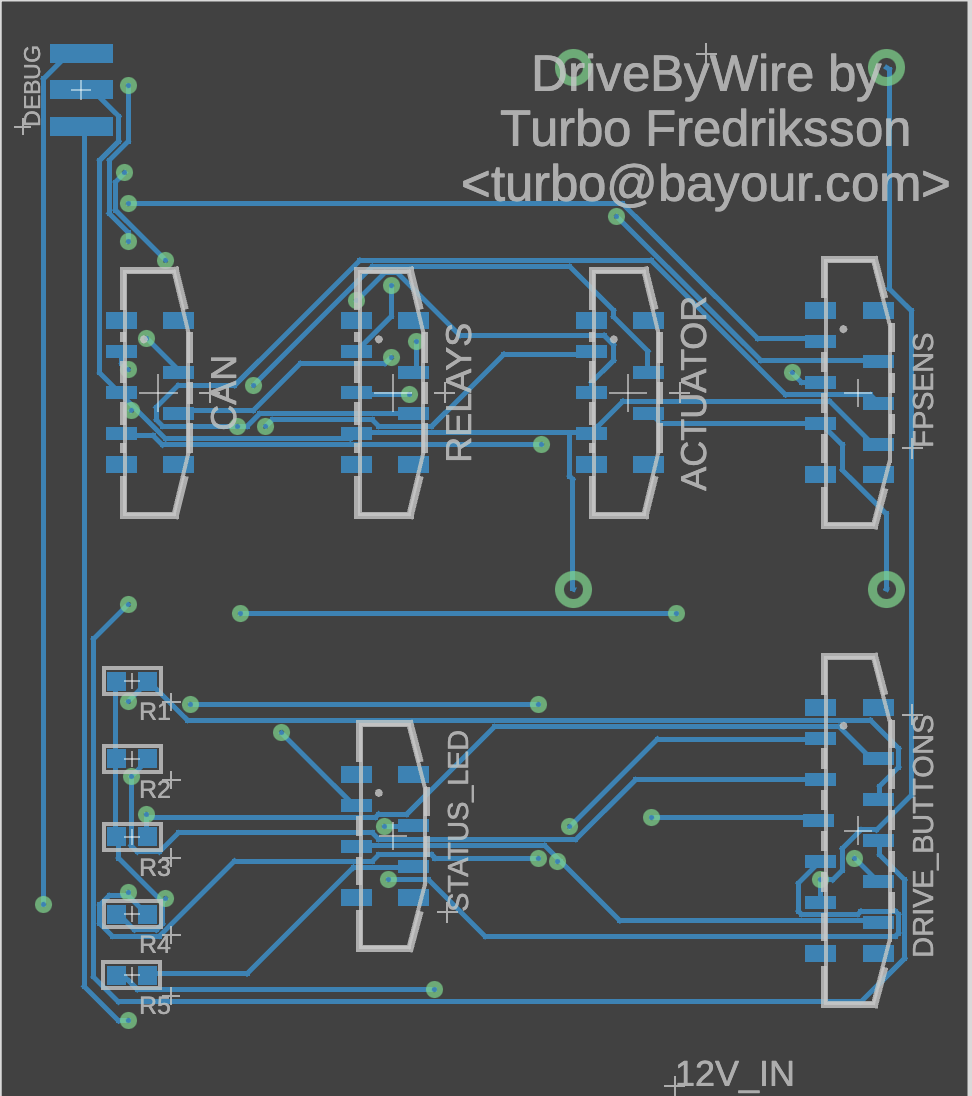
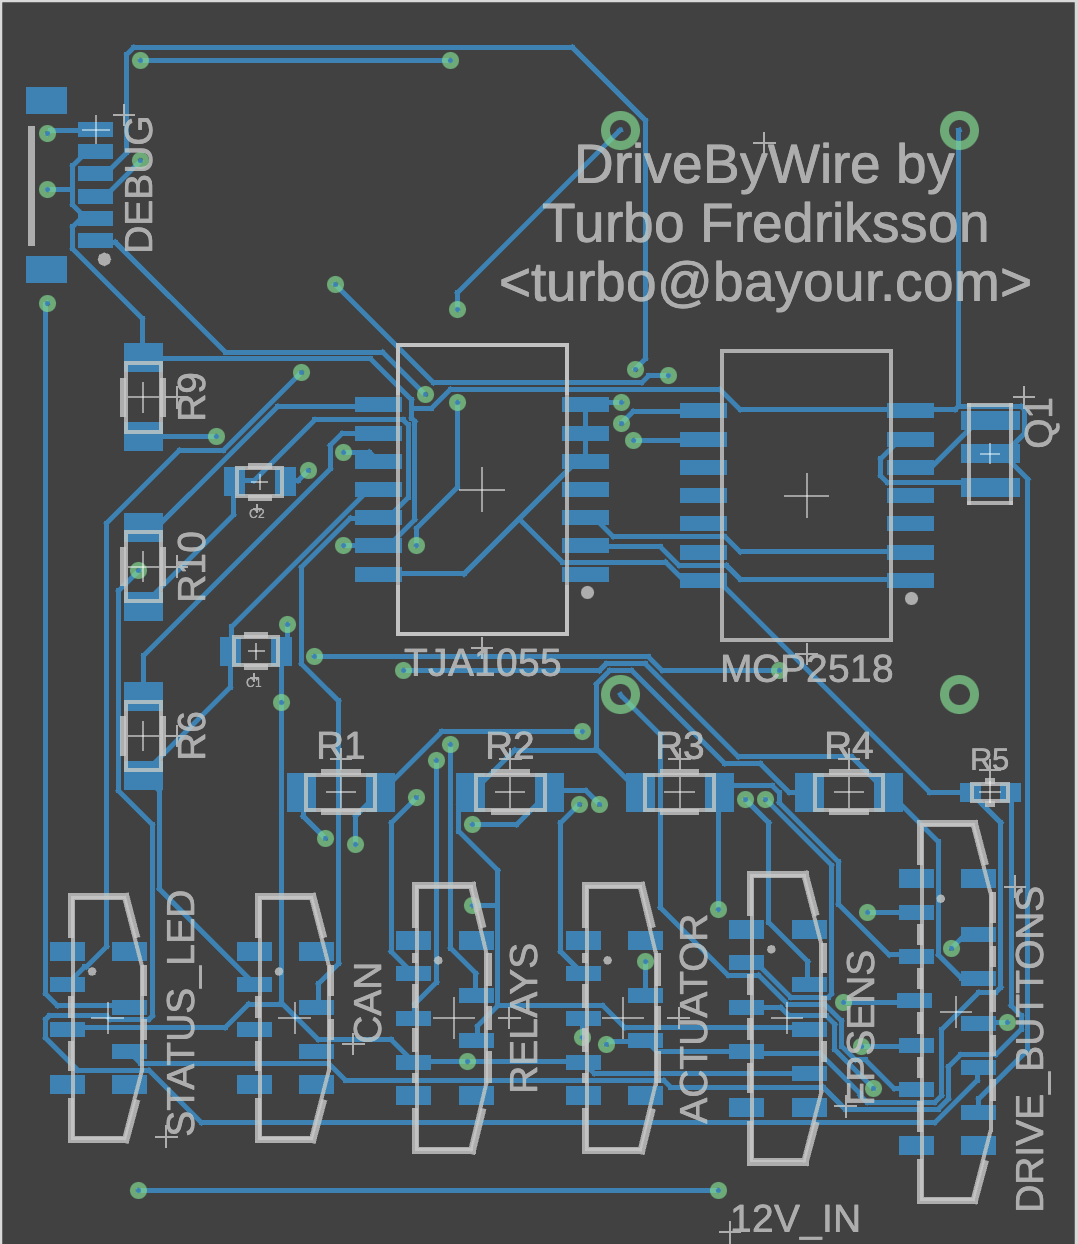
Implement a CAN bus adaptor on the main circuit diagram.
+ Add more components for the CAN bus adaptor in the README.
  + Cross out some stuff that I either didn't buy or don't need.
+ Update the screenshots.

diff --git a/README.md b/README.md
@@ -40,6 +40,7 @@ This is to introduce drive-by-wire buttons for Mercedes-Benz. Specifically, it i
      - [Update Sun 4 May 2024](#update-sun-4-may-2024)
      - [Update Sun 5 May 2024](#update-sun-5-may-2024)
      - [Update Sun 6 May 2024](#update-sun-6-may-2024)
+     - [Update Sun 8 May 2024](#update-sun-8-may-2024)
 5. [Additional information](#additional-information)
 
 ## Fingerprint scanner instead of Start button
@@ -214,16 +215,18 @@ Or those two combined, [buttons and their LEDs and the status LED](https://www.e
 
 # Parts
 
+Crossed out parts are things I either didn't buy or don't need. Yet. Which is why I'm leaving them, but cross them out.
+
 ## Actuation
 
 | Part | Price |
 | :--- | :---  |
 | [Actuator w/ feedback (potentiometer)](https://www.progressiveautomations.com/products/linear-actuator-with-potentiometer?variant=18277322424387) | £115 ($145) |
 | [Aston Martin drive select buttons](https://www.ebay.co.uk/sch/i.html?_dkr=1&iconV2Request=true&_blrs=recall_filtering&_ssn=hillsmotors&store_name=hillsmotors&_oac=1&_nkw=gear%20select%20switch) | £35	(*4 = £140) |
-| [GX20 Aviation Plug  4-pin Male+Female Panel Mount](https://www.ebay.co.uk/itm/174775342997?var=473951323019) | £4 |
-| [GX20 Aviation Plug  5-pin Male+Female Panel Mount](https://www.ebay.co.uk/itm/174775342997?var=473951323020) | £4 |
-| [GX20 Aviation Plug  6-pin Male+Female Panel Mount](https://www.ebay.co.uk/itm/174775342997?var=473951323021) | £4 |
-| [GX20 Aviation Plug 12-pin Male+Female Panel Mount](https://www.ebay.co.uk/itm/174775342997?var=473951323026) | £5 |
+| ~~[GX20 Aviation Plug  4-pin Male+Female Panel Mount](https://www.ebay.co.uk/itm/174775342997?var=473951323019)~~ | ~~£4~~ |
+| ~~[GX20 Aviation Plug  5-pin Male+Female Panel Mount](https://www.ebay.co.uk/itm/174775342997?var=473951323020)~~ | ~~£4~~ |
+| ~~[GX20 Aviation Plug  6-pin Male+Female Panel Mount](https://www.ebay.co.uk/itm/174775342997?var=473951323021)~~ | ~~£4~~ |
+| ~~[GX20 Aviation Plug 12-pin Male+Female Panel Mount](https://www.ebay.co.uk/itm/174775342997?var=473951323026)~~ | ~~£5~~ |
 
 ## Controller
 
@@ -232,8 +235,8 @@ Or those two combined, [buttons and their LEDs and the status LED](https://www.e
 | [Raspberry Pi Pico (w/ headers)](https://thepihut.com/products/raspberry-pi-pico?variant=41925332566211) | £5 |
 | [DC-DC Buck Converter 7-24V to 5V 4A](https://thepihut.com/products/dc-dc-buck-converter-7-24v-to-5v-4a?variant=39865627607235) | £5 |
 | [Fingerprint scanner (panel mount)](https://thepihut.com/products/panel-mount-fingerprint-sensor-with-bi-colour-led-ring-r503?variant=41727311675587) | £23 |
-| [MOSFET Power Controller](https://thepihut.com/products/gravity-mosfet-power-controller) | £4 (*3 = £12) |
-| [1Channel CAN bus extension board](https://thepihut.com/products/can-board-sn65hvd230?variant=40242101256387) | £6 (*2 = £12) |
+| [MOSFET Power Controller](https://thepihut.com/products/gravity-mosfet-power-controller) | £4 * 3 |
+| ~~[1Channel CAN bus extension board](https://thepihut.com/products/can-board-sn65hvd230?variant=40242101256387)~~ | ~~£6 * 2~~ |
 | [NeoPixel Diffused 5mm LED](https://thepihut.com/products/neopixel-diffused-5mm-through-hole-led-5-pack?variant=27739696529) | £5 |
 | [LED holder 5mm](https://thepihut.com/products/5mm-plastic-flat-led-holder-pack-of-5?variant=27739774353) | £1 |
 
@@ -243,7 +246,19 @@ Or those two combined, [buttons and their LEDs and the status LED](https://www.e
 | :--- | :---  |
 | [TJA1055T/1J Fault-tolerant CAN chip](https://www.mouser.co.uk/ProductDetail/771-TJA1055T-1J) | £2
 | [MCP2513FDTE/SL CAN Interface IC](https://www.mouser.co.uk/ProductDetail/579-MCP2518FDT-E-SL) | £2
-| [SO14 IC to Breadboard adapter](https://www.mouser.co.uk/ProductDetail/535-LCQT-SOIC14) | £4 * 2
+| [WR-FPC connector -  4pin](https://www.mouser.co.uk/ProductDetail/710-686104183822) | £1 * 2
+| [WR-FPC jumper cable -  4pin/10cm](https://www.mouser.co.uk/ProductDetail/710-686704100001) | £3 * 2
+| [WR-FPC connector -  5pin](https://www.mouser.co.uk/ProductDetail/710-686105183822) | £1 * 2
+| [WR-FPC jumper cable -  5pin/10cm](https://www.mouser.co.uk/ProductDetail/710-686705100001) | £3 * 2
+| [WR-FPC connector -  6pin](https://www.mouser.co.uk/ProductDetail/710-686106183822) | £1
+| [WR-FPC jumper cable -  6pin/10cm](https://www.mouser.co.uk/ProductDetail/710-686706100001) | £3
+| [WR-FPC connector - 10pin](https://www.mouser.co.uk/ProductDetail/710-686110183822) | £2
+| [WR-FPC jumper cable - 10pin/10cm](https://www.mouser.co.uk/ProductDetail/710-686710100001) | £3
+| [DC Power Connector](https://www.mouser.co.uk/ProductDetail/502-RASM722X) | £1
+| [Resistor -  1kΩ](https://www.mouser.co.uk/ProductDetail/710-560112132038) | £0.10 * 7
+| [Resistor - 10kΩ](https://www.mouser.co.uk/ProductDetail/710-560112116005) | £0.09
+| [Capacitor - 150pF](https://www.mouser.co.uk/ProductDetail/710-885012007017) | £0.08 * 2
+| [Resonator - 16MHz/15pF](https://www.mouser.co.uk/ProductDetail/81-CSTNE16M0VH3L000R) | £0.30
 
 ## For development
 
@@ -252,10 +267,10 @@ Or those two combined, [buttons and their LEDs and the status LED](https://www.e
 | [Raspberry Pi Debug Probe](https://thepihut.com/products/raspberry-pi-debug-probe?variant=42380171870403) | £12 |
 | [120-Piece Ultimate Jumper Bumper Pack](https://thepihut.com/products/thepihuts-jumper-bumper-pack-120pcs-dupont-wire?variant=13530244284478) | £6 |
 | [575-Piece Ultimate Resistor Kit](https://thepihut.com/products/ultimate-resistor-kit?variant=36476117073) | £6 |
-| [Half-Size Breadboard](https://thepihut.com/products/breadboard-400-point-clear?variant=31986026381374) | £3 (*3 => £9) |
+| [Half-Size Breadboard](https://thepihut.com/products/breadboard-400-point-clear?variant=31986026381374) | £3 * 3 |
 | [Breadboard for Pico](https://thepihut.com/products/breadboard-for-pico?variant=39819276386499) | £4 |
 | [Short Plug Headers](https://thepihut.com/products/short-plug-headers-for-raspberry-pi-pico-2-x-20-pin-male?variant=42182974505155) | £1 |
-| *[10K potentiometer](https://thepihut.com/products/panel-mount-10k-potentiometer-breadboard-friendly?variant=27740444817)* | £1 |
+| ~~[10K potentiometer](https://thepihut.com/products/panel-mount-10k-potentiometer-breadboard-friendly?variant=27740444817)~~ | ~~£1~~ |
 | [Tactile Switch Buttons](https://thepihut.com/products/tactile-switch-buttons-6mm-tall-x-10-pack?variant=27739414097) | £3 |
 | [Breakout for 6-pin JST SH-Style Connector - Side Entry](https://thepihut.com/products/breakout-for-6-pin-jst-sh-style-connector-side-entry?variant=42438253871299) | £1 |
 | [Extra-long break-away 0.1" 16-pin strip male header (5 pieces)](https://thepihut.com/products/extra-long-break-away-0-1-16-pin-strip-male-header-5-pieces?variant=27740420881) | £3 |
@@ -264,9 +279,10 @@ Or those two combined, [buttons and their LEDs and the status LED](https://www.e
 | [Breadboard-friendly 2.1mm DC barrel jack](https://thepihut.com/products/breadboard-friendly-2-1mm-dc-barrel-jack?variant=27740417489) | £1 |
 | [In-line power switch for 2.1mm barrel jack](https://thepihut.com/products/in-line-power-switch-for-2-1mm-barrel-jack?variant=27739226065) | £2 |
 | [DB9 Right Angle MALE Connector - PCB Mount D-SUB](https://www.ebay.co.uk/itm/325261653847) | £3 |
-| [Dupont Jump Wire F-F Jumper Breadboard Cable Lead -  6pin](https://www.ebay.co.uk/itm/275827705804?var=577580216871) | £2 |
-| [Dupont Jump Wire F-F Jumper Breadboard Cable Lead - 10pin](https://www.ebay.co.uk/itm/275827705804?var=577580216855) | £2 |
-| [Dupont Jump Wire M-M Jumper Breadboard Cable Lead - 10cm](https://www.ebay.co.uk/itm/275268807202?var=575537821821) | £8 |
+| ~~[Dupont Jump Wire F-F Jumper Breadboard Cable Lead -  6pin](https://www.ebay.co.uk/itm/275827705804?var=577580216871)~~ | £2 |
+| ~~[Dupont Jump Wire F-F Jumper Breadboard Cable Lead - 10pin](https://www.ebay.co.uk/itm/275827705804?var=577580216855)~~ | £2 |
+| ~~[Dupont Jump Wire M-M Jumper Breadboard Cable Lead - 10cm](https://www.ebay.co.uk/itm/275268807202?var=575537821821)~~ | £8 |
+| [SO14 IC to Breadboard adapter](https://www.mouser.co.uk/ProductDetail/535-LCQT-SOIC14) | £4 * 2
 
 ## Other
 
@@ -456,6 +472,11 @@ is then selected automatically.
 ### Update Sun 6 May 2024
 
 * Rewrite the flash code to be "smarter". Actually, easier to use :).
+
+### Update Sun 8 May 2024
+
+Update the circuit diagram and PCB with a home-made CAN bus adapter, because I can't use the over-the-shelf
+ones.
 
 # Additional information
 
